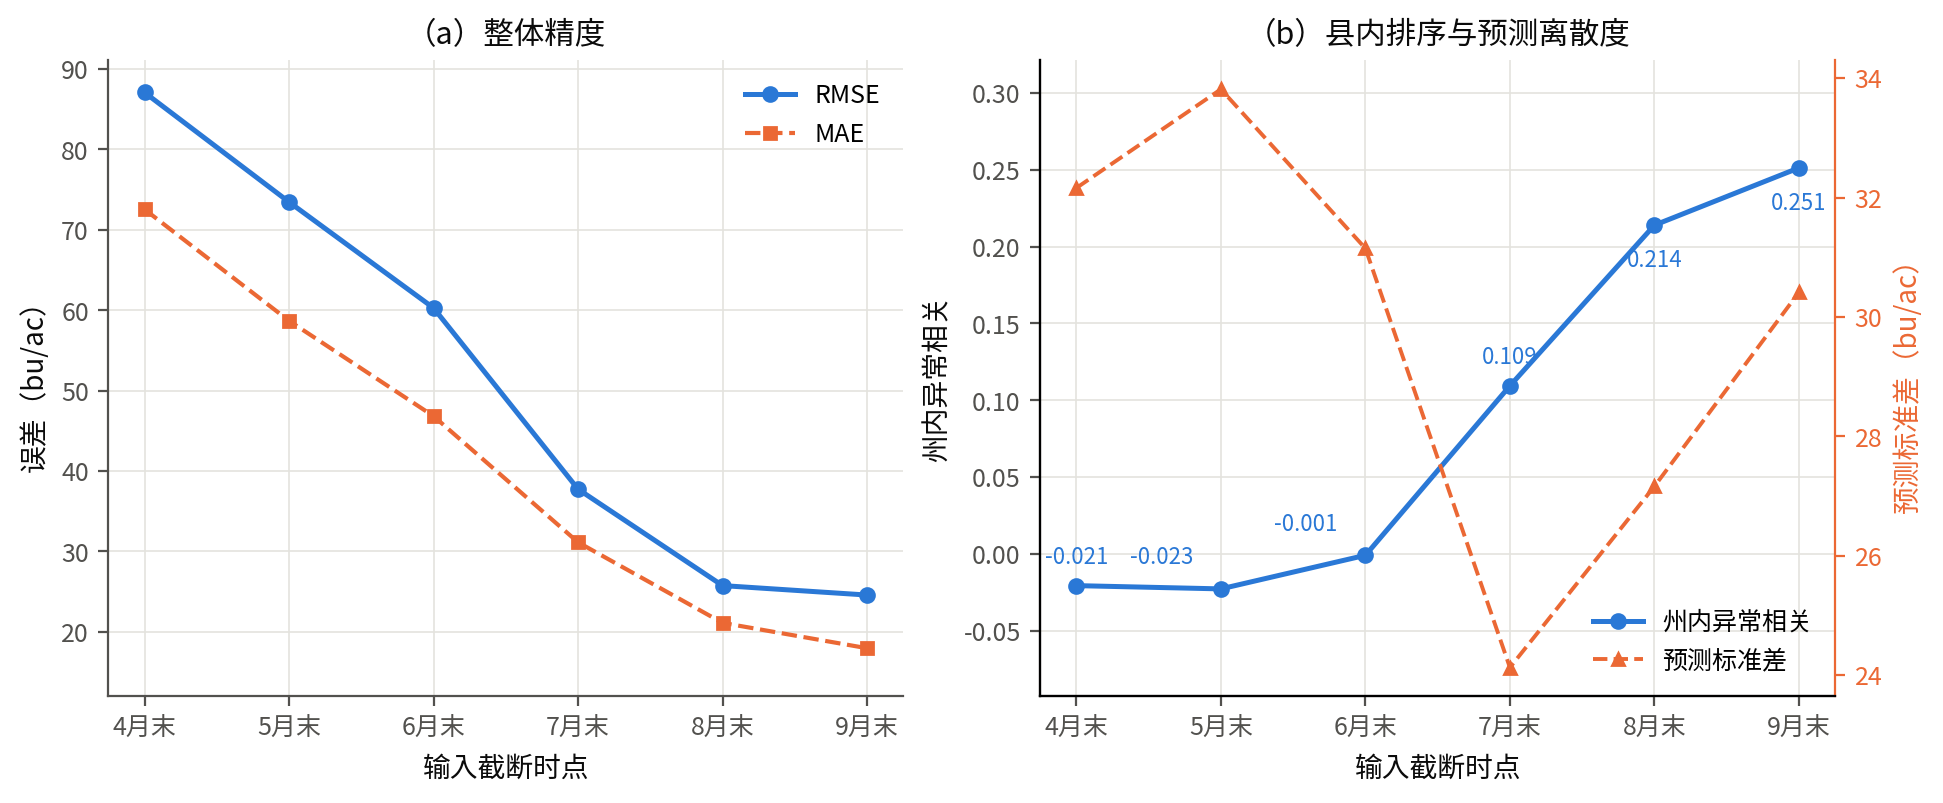
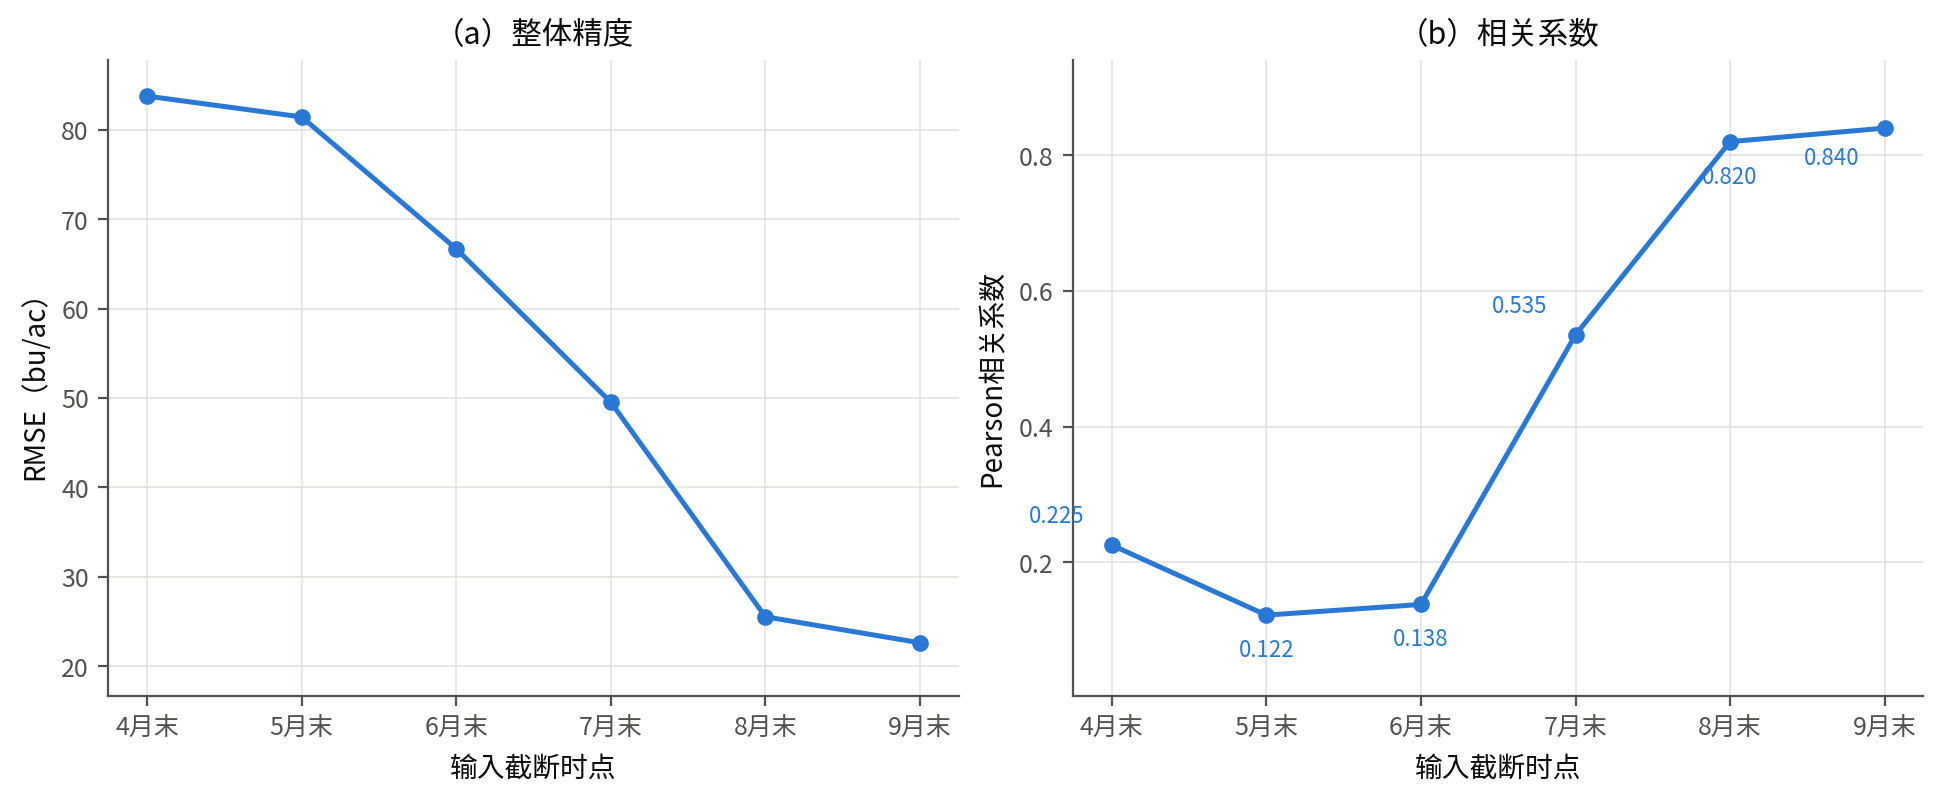
docs: report only RMSE, R2 and Pearson r

diff --git a/TFT_model/inseason_figure.py b/TFT_model/inseason_figure.py
@@ -1,8 +1,8 @@
 """图5-4：PAF-Net在2022年生长季内各月末截点的预测精度。
 
 读取 paper_figures/inseason_2022.json（由 inseason_report.py 生成），
-左图给出截断预测的RMSE、MAE随截点推进的变化，
-右图给出州内异常相关与预测标准差。
+左图给出截断预测的RMSE随截点推进的变化，
+右图给出Pearson相关系数随截点的变化。
 写入 paper_figures/fig5_4_inseason.png。
 """
 
@@ -21,7 +21,7 @@ if str(ROOT) not in sys.path:
 from TFT_model.attention_analysis import _configure_chinese_font  # noqa: E402
 
 OUT = ROOT / "paper_figures"
-BLUE, ORANGE = "#2a78d6", "#eb6834"
+BLUE = "#2a78d6"
 INK, MUTED, GRID = "#0b0b0b", "#52514e", "#e4e3de"
 
 
@@ -54,53 +54,41 @@ def main():
 
     ax = axes[0]
     rmse = [r["rmse"] for r in rows]
-    mae = [r["mae"] for r in rows]
-    ax.plot(x, rmse, "-o", color=BLUE, lw=1.8, ms=5, label="RMSE", zorder=3)
-    ax.plot(x, mae, "--s", color=ORANGE, lw=1.5, ms=4.5, label="MAE", zorder=3)
+    ax.plot(x, rmse, "-o", color=BLUE, lw=1.8, ms=5, zorder=3)
     ax.set_xticks(x)
     ax.set_xticklabels(labels)
     ax.set_xlabel("输入截断时点", fontsize=10, color=INK)
-    ax.set_ylabel("误差（bu/ac）", fontsize=10, color=INK)
-    ax.set_ylim(min(mae) - 6, max(rmse) + 4)
-    ax.legend(fontsize=9, frameon=False, loc="upper right")
+    ax.set_ylabel("RMSE（bu/ac）", fontsize=10, color=INK)
+    ax.set_ylim(min(rmse) - 6, max(rmse) + 4)
     ax.set_title("（a）整体精度", fontsize=11, color=INK)
     style(ax)
 
     ax = axes[1]
-    anom = [r["anom_corr"] for r in rows]
-    sd = [r["pred_sd"] for r in rows]
-    ax.plot(x, anom, "-o", color=BLUE, lw=1.8, ms=5, label="州内异常相关", zorder=3)
-    for xi, v in zip(x, anom):
-        below = xi >= len(rows) - 2
-        left = (not below) and 0 < xi < len(rows) - 1 and v < 0
-        ax.annotate(f"{v:.3f}", (xi, v), textcoords="offset points",
-                    xytext=(0, -15) if below else ((-10, 9) if left else (0, 8)),
-                    ha="right" if left else "center", fontsize=8, color=BLUE)
+    corr = [r["r"] for r in rows]
+    ax.plot(x, corr, "-o", color=BLUE, lw=1.8, ms=5, zorder=3)
+    for xi, v in zip(x, corr):
+        if xi == len(rows) - 1:
+            ax.annotate(f"{v:.3f}", (xi, v), textcoords="offset points",
+                        xytext=(-9, -13), ha="right", fontsize=8, color=BLUE)
+        elif xi >= len(rows) - 2 or v < 0.2:
+            ax.annotate(f"{v:.3f}", (xi, v), textcoords="offset points",
+                        xytext=(0, -15), ha="center", fontsize=8, color=BLUE)
+        else:
+            ax.annotate(f"{v:.3f}", (xi, v), textcoords="offset points",
+                        xytext=(-10, 8), ha="right", fontsize=8, color=BLUE)
     ax.set_xticks(x)
     ax.set_xticklabels(labels)
     ax.set_xlabel("输入截断时点", fontsize=10, color=INK)
-    ax.set_ylabel("州内异常相关", fontsize=10, color=INK)
-    ax.set_ylim(min(anom) - 0.07, max(anom) + 0.07)
+    ax.set_ylabel("Pearson相关系数", fontsize=10, color=INK)
+    ax.set_ylim(min(corr) - 0.12, max(corr) + 0.10)
+    ax.set_title("（b）相关系数", fontsize=11, color=INK)
     style(ax)
-
-    ax2 = ax.twinx()
-    ax2.plot(x, sd, "--^", color=ORANGE, lw=1.4, ms=4, label="预测标准差", zorder=3)
-    ax2.set_ylabel("预测标准差（bu/ac）", fontsize=10, color=ORANGE)
-    ax2.tick_params(colors=ORANGE, labelsize=9)
-    for side in ("top",):
-        ax2.spines[side].set_visible(False)
-    ax2.spines["right"].set_color(ORANGE)
-    ax2.spines["right"].set_linewidth(0.8)
-    ax.set_title("（b）县内排序与预测离散度", fontsize=11, color=INK)
-    lines = ax.get_lines() + ax2.get_lines()
-    ax.legend(lines, [ln.get_label() for ln in lines], fontsize=9, frameon=False, loc="lower right")
 
     fig.savefig(OUT / "fig5_4_inseason.png", dpi=200, bbox_inches="tight")
     plt.close(fig)
     print(f"wrote {OUT / 'fig5_4_inseason.png'}")
     for r in rows:
-        print(f"{r['label']:>6s}: RMSE {r['rmse']:.2f} MAE {r['mae']:.2f} anom {r['anom_corr']:.3f} "
-              f"sd {r['pred_sd']:.2f}")
+        print(f"{r['label']:>6s}: RMSE {r['rmse']:.2f} r {r['r']:.3f}")
 
 
 if __name__ == "__main__":

diff --git a/TFT_model/figures_2022.py b/TFT_model/figures_2022.py
@@ -67,7 +67,7 @@ def fig_scatter(plt, fips, pred, truth, base):
         ax.set_aspect("equal")
         ax.set_title(f"{title}（RMSE = {m['rmse']:.2f}）", fontsize=11, color=INK)
         ax.set_xlabel("观测单产（bu/ac）", fontsize=10, color=INK)
-        ax.text(0.05, 0.95, f"RMSE {m['rmse']:.2f}\nMAE {m['mae']:.2f}\n$R^2$ {m['r2']:.3f}\n$r$ {m['corr']:.3f}",
+        ax.text(0.05, 0.95, f"RMSE {m['rmse']:.2f}\n$R^2$ {m['r2']:.3f}\n$r$ {m['corr']:.3f}",
                 transform=ax.transAxes, va="top", ha="left", fontsize=8.5, color=INK,
                 bbox={"boxstyle": "round,pad=0.35", "fc": "white", "ec": GRID, "lw": 0.8})
         style(ax)
@@ -155,7 +155,7 @@ def main():
     ablation = fig_ablation(plt, scores["（a）PAF-Net"]["rmse"])
 
     for name, m in scores.items():
-        print(f"{name}: RMSE {m['rmse']:.2f} MAE {m['mae']:.2f} R2 {m['r2']:.3f} r {m['corr']:.3f}")
+        print(f"{name}: RMSE {m['rmse']:.2f} R2 {m['r2']:.3f} r {m['corr']:.3f}")
     gains = [r["base"] - r["tft"] for r in states]
     print(f"states: {int(sum(g > 0 for g in gains))}/{len(gains)} better, "
           f"median gain {np.median([g for g in gains if g > 0]):.2f}")
